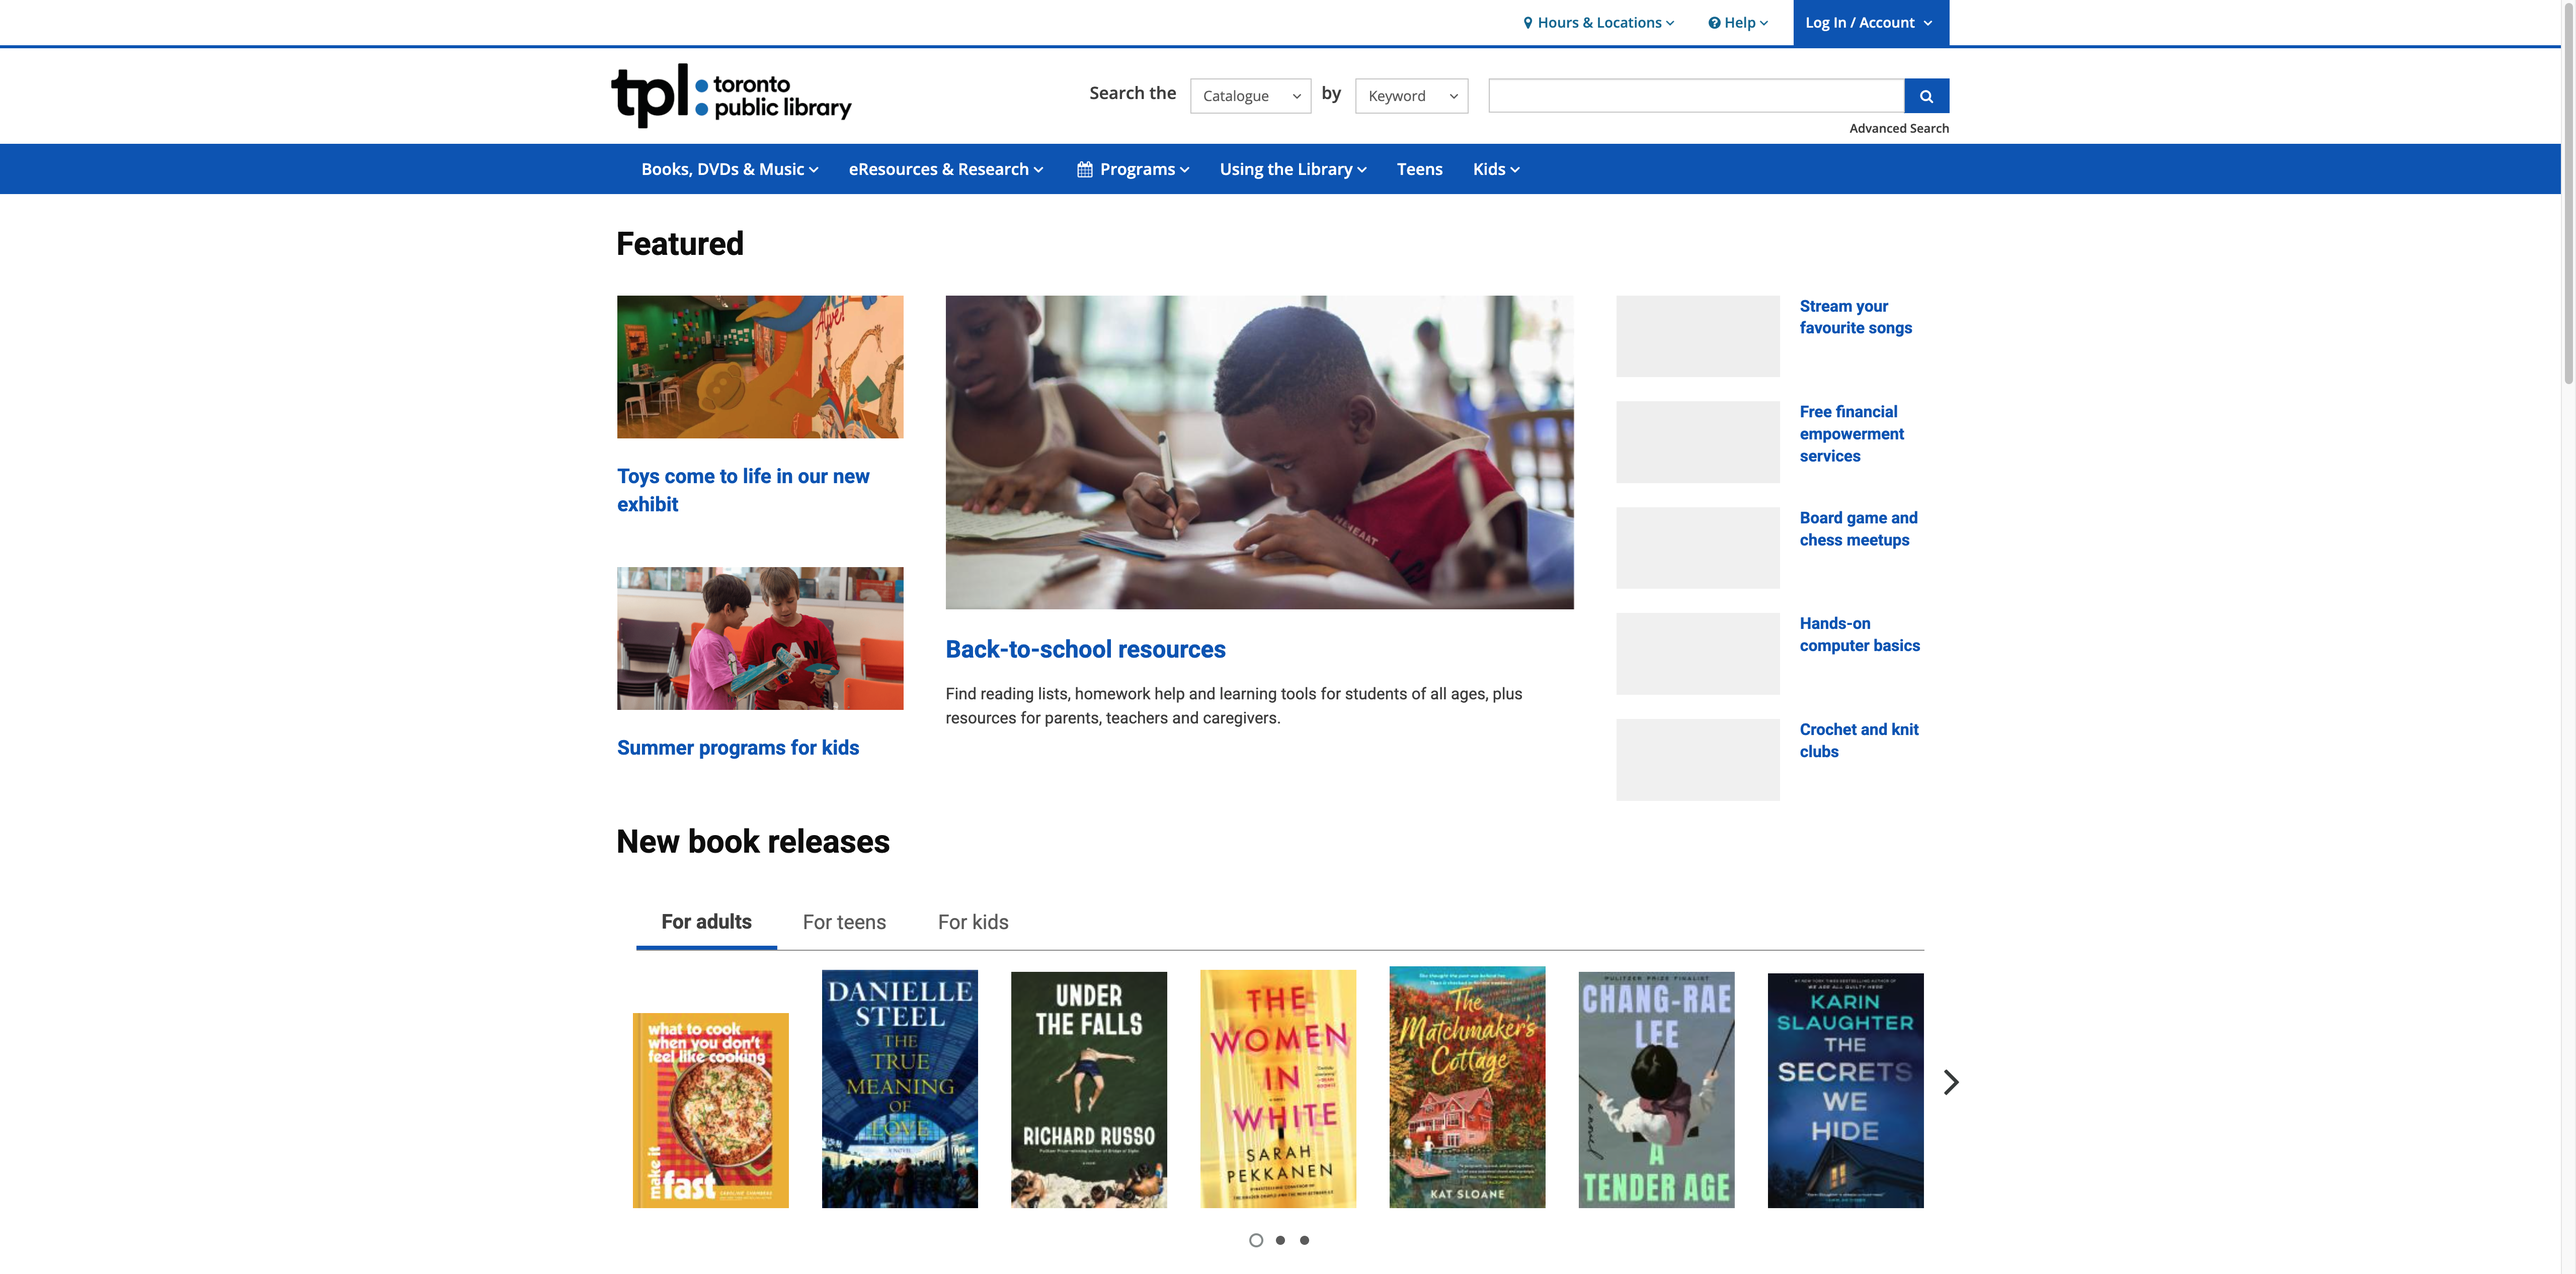
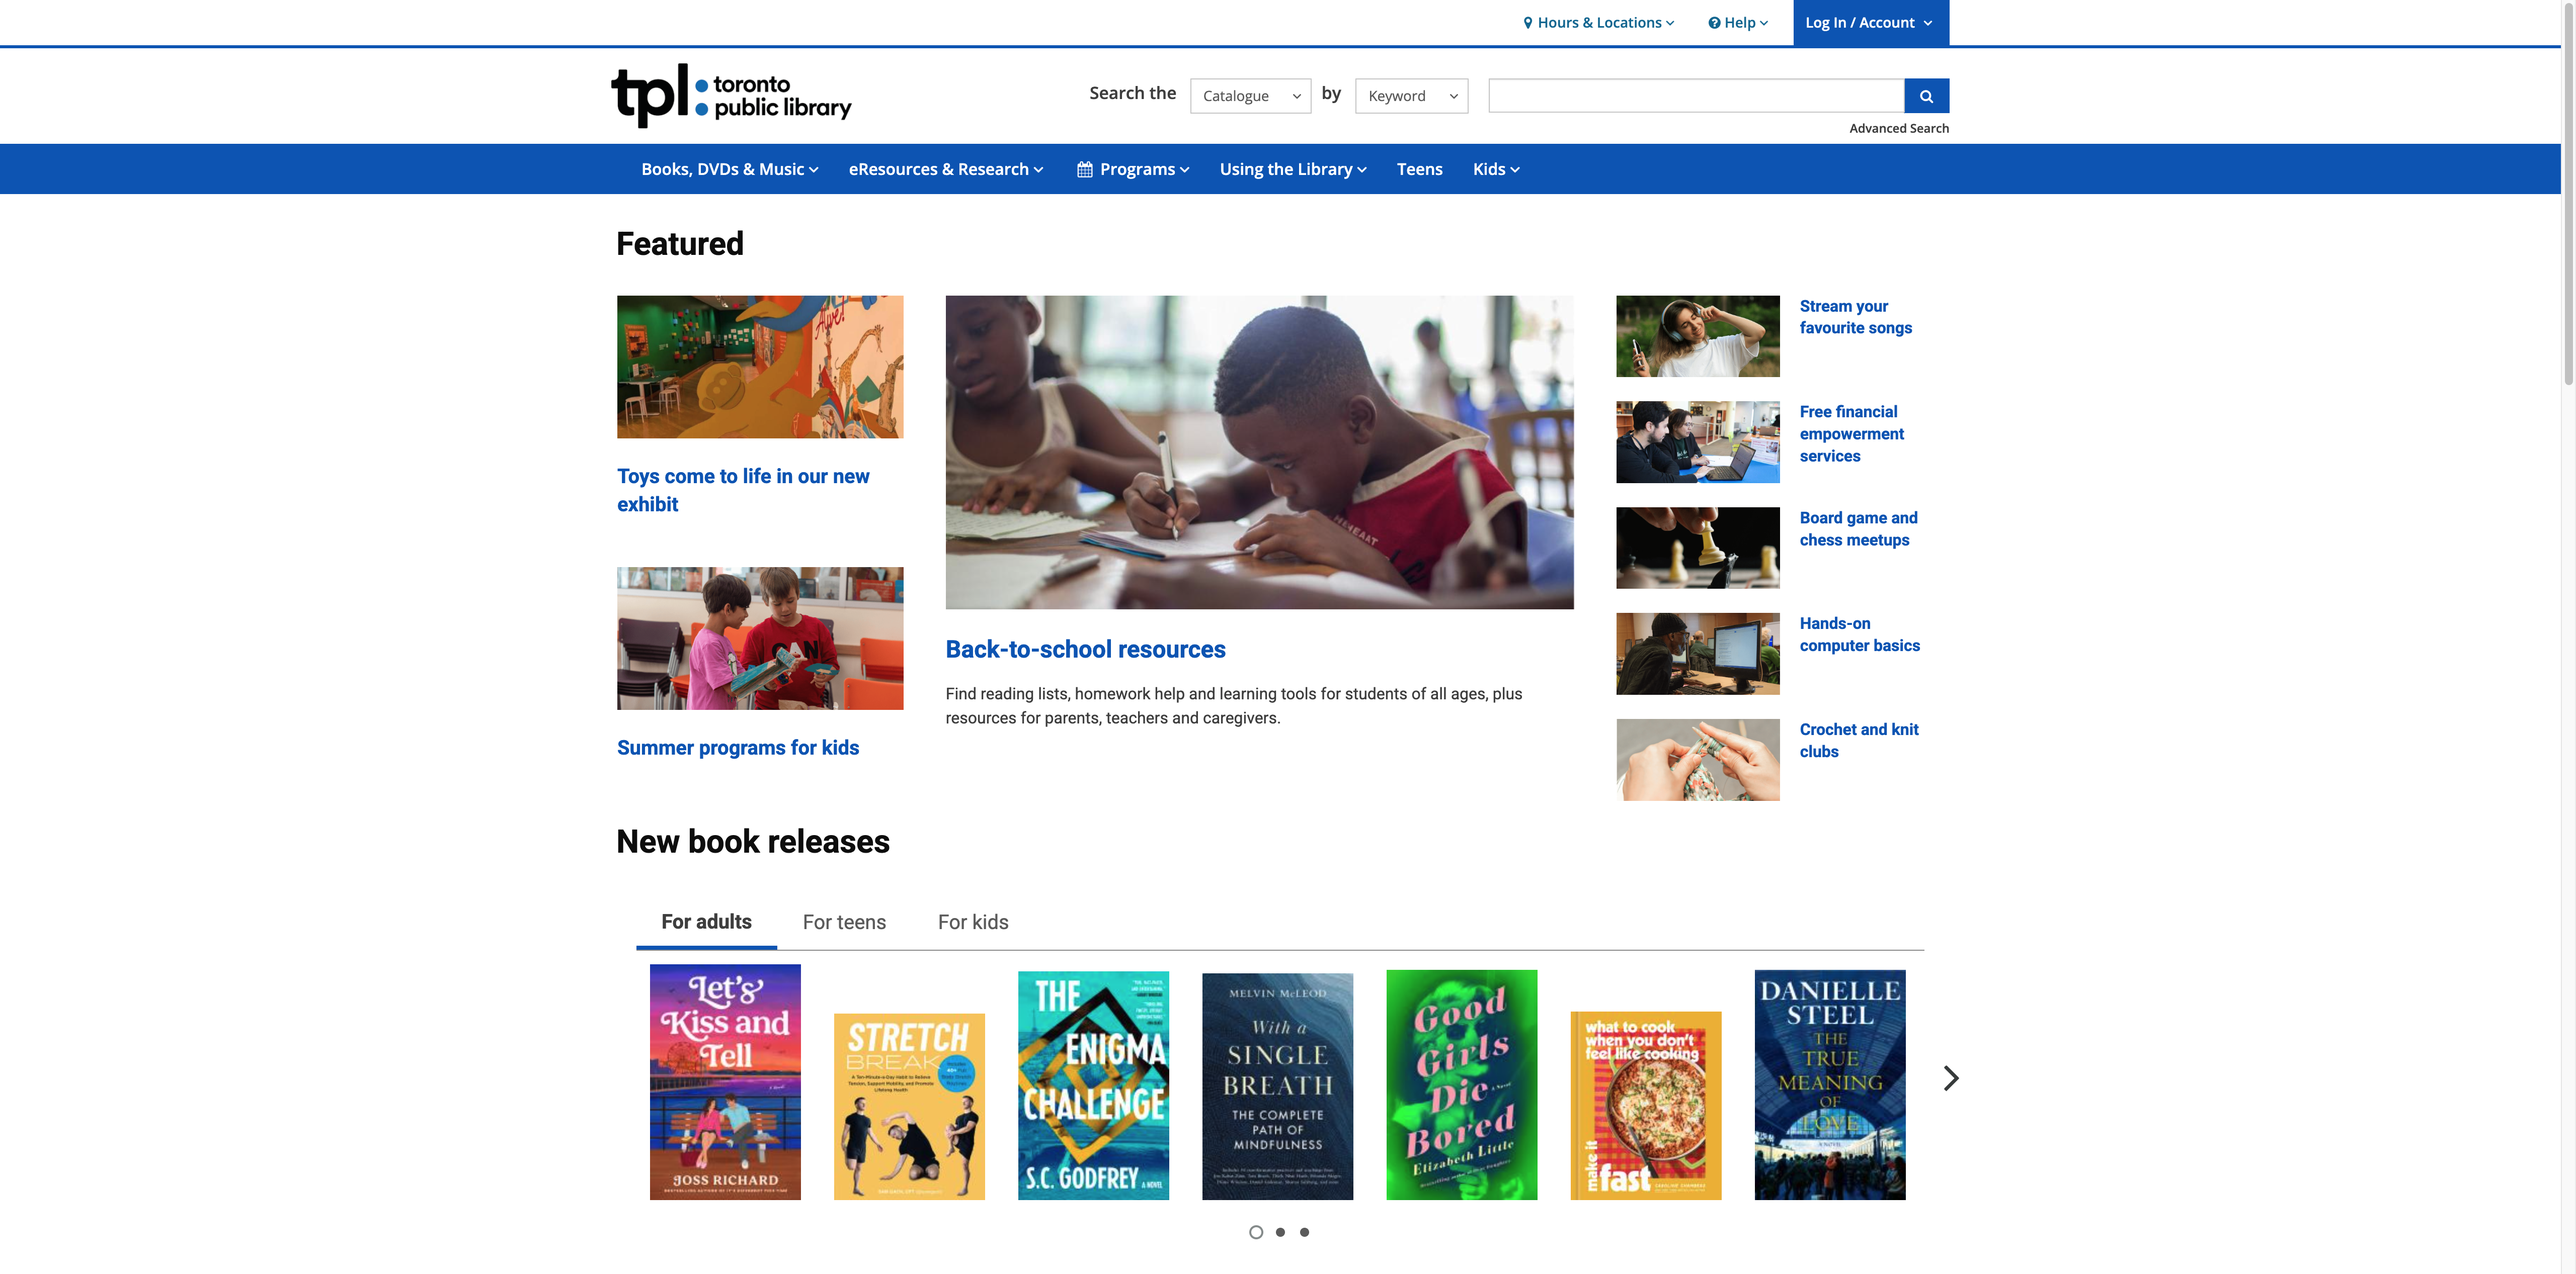
feat: accessibility testing

Changed region(s): [[0.2188, 0.7482, 0.75, 0.9665], [0.625, 0.2182, 0.7188, 0.6547]]

diff --git a/reports/index.html b/reports/index.html
@@ -56,8 +56,8 @@ th,td{
 <h1>🚀 TestPilot Report</h1>
 
 
-        <p><strong>Total Tests:</strong> 2</p>
-        <p><strong>Passed:</strong> 2</p>
+        <p><strong>Total Tests:</strong> 4</p>
+        <p><strong>Passed:</strong> 4</p>
         <p><strong>Failed:</strong> 0</p>
         
 
@@ -71,7 +71,7 @@ th,td{
 
 </tr>
 
-<tr class='pass'><td>Homepage Test</td><td>PASSED</td></tr><tr class='pass'><td>Search Test</td><td>PASSED</td></tr>
+<tr class='pass'><td>Homepage Test</td><td>PASSED</td></tr><tr class='pass'><td>Search Test</td><td>PASSED</td></tr><tr class='pass'><td>Broken Link Test</td><td>PASSED</td></tr><tr class='pass'><td>Accessibility Test</td><td>PASSED</td></tr>
 
 </table>
 

diff --git a/tests/broken_link_test.py b/tests/broken_link_test.py
@@ -1,0 +1,89 @@
+import requests
+
+from selenium.webdriver.common.by import By
+
+from core.logger import logger
+
+
+def run(driver):
+
+    logger.info("========== Broken Link Test ==========")
+
+    links = driver.find_elements(
+        By.TAG_NAME,
+        "a"
+    )
+
+    logger.info(f"Found {len(links)} links.")
+
+    urls = []
+
+    for link in links:
+
+        url = link.get_attribute("href")
+
+        if not url:
+            continue
+
+        if url.startswith("javascript:"):
+            continue
+
+        if url.startswith("mailto:"):
+            continue
+
+        if url.startswith("tel:"):
+            continue
+
+        urls.append(url)
+
+    urls = list(dict.fromkeys(urls))
+
+    logger.info(f"Checking {len(urls)} unique URLs...")
+
+    broken_links = []
+
+    for url in urls:
+
+        try:
+            if "tpl.ca" not in url:
+
+                logger.info(
+                    f"Skipping external URL: {url}"
+                )
+
+                continue
+            response = requests.get(
+                url,
+                timeout=5
+            )
+            if response.status_code == 403:
+
+                logger.info(
+                    f"Access denied (403): {url}"
+                )
+            elif response.status_code == 404 or response.status_code >= 500:
+
+                logger.warning(
+                    f"Broken link: {url} ({response.status_code})"
+                )
+
+                broken_links.append(
+                    (url, response.status_code)
+                )
+
+        except requests.RequestException as e:
+
+            logger.error(
+                f"Error checking {url}: {e}"
+            )
+
+            broken_links.append(
+                (url, str(e))
+            )
+    logger.info(
+        f"Broken links found: {len(broken_links)}"
+    )
+
+    assert len(broken_links) == 0, (
+        f"{len(broken_links)} broken links found."
+    )

diff --git a/core/test_runner.py b/core/test_runner.py
@@ -5,11 +5,12 @@ from core.config import config
 
 from tests.homepage_test import run as homepage_test
 from tests.search_positive_test import run as search_test
+from tests.broken_link_test import run as broken_link_test
 
 from core.logger import logger
 import core.test_result
 from core.report import ReportGenerator
-
+from tests.accessibility_test import run as accessibility_test
 
 class TestRunner:
 
@@ -19,7 +20,9 @@ class TestRunner:
 
         self.tests = [
             ("Homepage Test", homepage_test),
-            ("Search Test", search_test)
+            ("Search Test", search_test),
+            ("Broken Link Test", broken_link_test),
+            ("Accessibility Test", accessibility_test)
         ]
         self.results = []
 

diff --git a/tests/accessibility_test.py b/tests/accessibility_test.py
@@ -1,0 +1,31 @@
+from axe_selenium_python import Axe
+
+from core.logger import logger
+
+
+def run(driver):
+
+    logger.info("========== Accessibility Test ==========")
+
+    axe = Axe(driver)
+
+    axe.inject()
+
+    results = axe.run()
+
+    violations = results["violations"]
+
+    logger.info(f"Accessibility Violations: {len(violations)}")
+
+    for violation in violations:
+
+        logger.warning(
+            f"""
+        Rule     : {violation['id']}
+        Impact   : {violation['impact']}
+        Help     : {violation['help']}
+        Affected : {len(violation['nodes'])}
+        """
+            )
+
+    logger.info("✅ Accessibility Test Finished")
